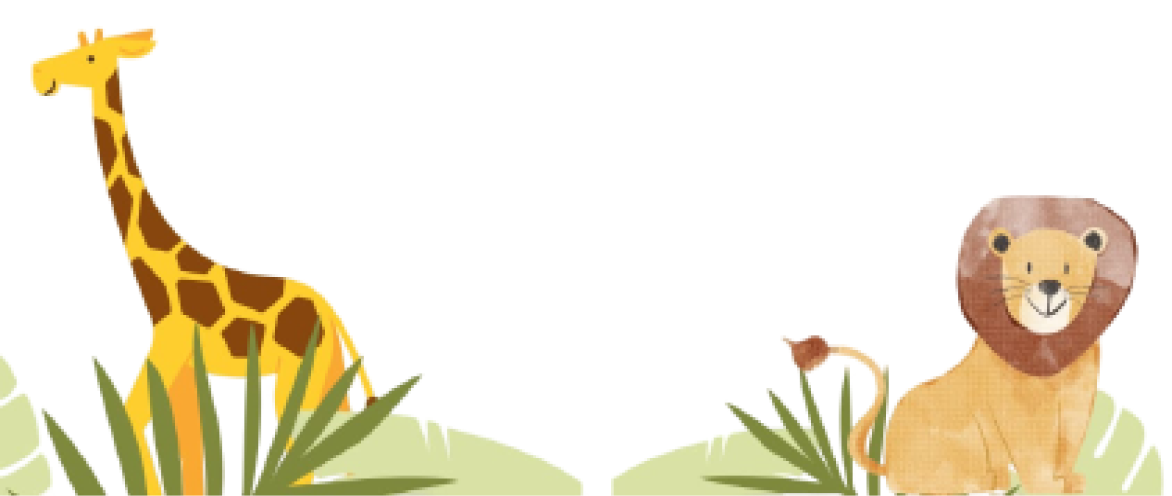
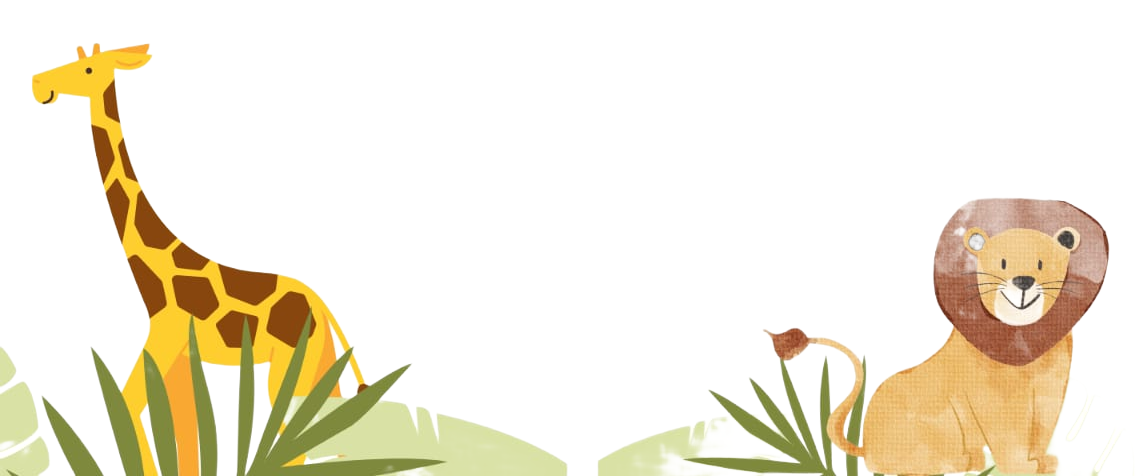
[FIX]: modificado imagens com melhor resolução e alterado cor de fundo

diff --git a/src/pages/home/index.js b/src/pages/home/index.js
@@ -1,3 +1,4 @@
+import { Flex, Box } from "@chakra-ui/react";
 import Button from "../../components/button";
 import ContentBody from "../../components/layout/content-body";
 import Container from "../../components/spaccing/container";
@@ -6,7 +7,8 @@ import TableGuests from "../../components/table";
 
 const Home = () => {
   return (
-    <>
+    <Flex height="100vh" >
+      <Box width="50vw"></Box>
       <Container>
         <PagePadding>
           <ContentBody>
@@ -16,7 +18,8 @@ const Home = () => {
           </ContentBody>
         </PagePadding>
       </Container>
-    </>
+      <Box width="50vw" ></Box>
+    </Flex>
   );
 };
 

diff --git a/src/components/layout/content-body.js b/src/components/layout/content-body.js
@@ -1,17 +1,16 @@
-import { Box, Image } from "@chakra-ui/react";
+import { Flex, Image } from "@chakra-ui/react";
 import BgUp from "../../assets/images/bgup.png";
 import BgDown from "../../assets/images/bgdown.png";
 
 const ContentBody = ({ children }) => {
   return (
-    <>
-      <Box>
-        <Image src={BgUp} />
-
+    <Flex bg={"white"} direction="column" alignItems="center">
+      <Image width="200vh" src={BgUp} />
+      <Flex direction="column" alignItems="center" justify="center">
         {children}
-        <Image src={BgDown} />
-      </Box>
-    </>
+      </Flex>
+      <Image src={BgDown} />
+    </Flex>
   );
 };
 

diff --git a/src/components/spaccing/page-padding.js b/src/components/spaccing/page-padding.js
@@ -6,7 +6,7 @@ const PagePadding = ({ children }) => {
       <Flex
         mx="auto"
         w="100%"
-        px={{ base: "20px", sm: "48px", md: "100px", xl: "140px" }}
+        // px={{ base: "20px", sm: "48px", md: "100px", xl: "140px" }}
         maxWidth="1920px"
       >
         <Box flex="1" w="100%">

diff --git a/src/index.css b/src/index.css
@@ -6,6 +6,7 @@ body {
   -webkit-font-smoothing: antialiased;
   -moz-osx-font-smoothing: grayscale;
   background-color: #a0aa62 !important;
+  /* background-color: #ffffff !important; */
   color: #584f4a !important;
 }
 
